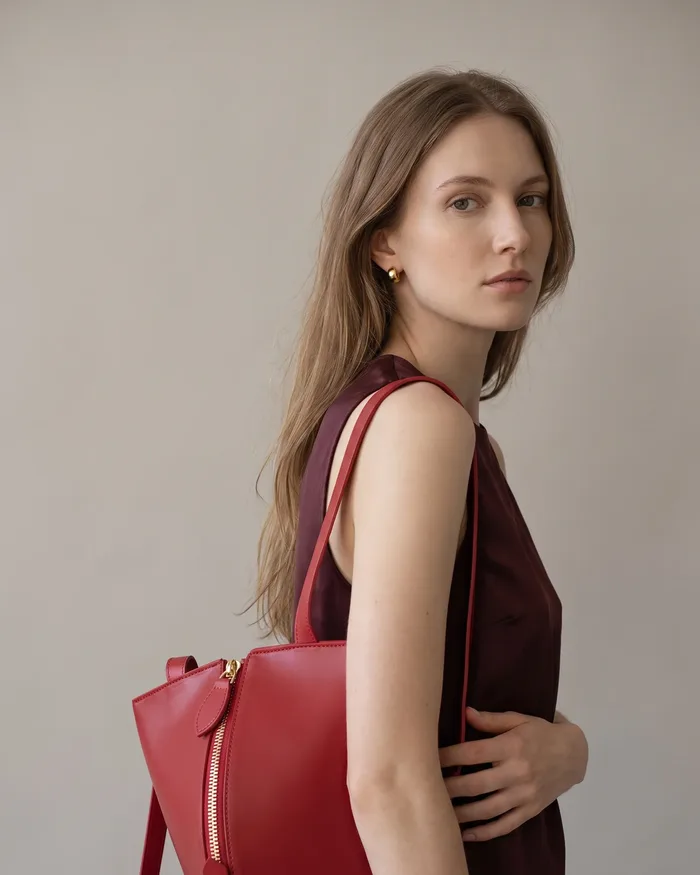
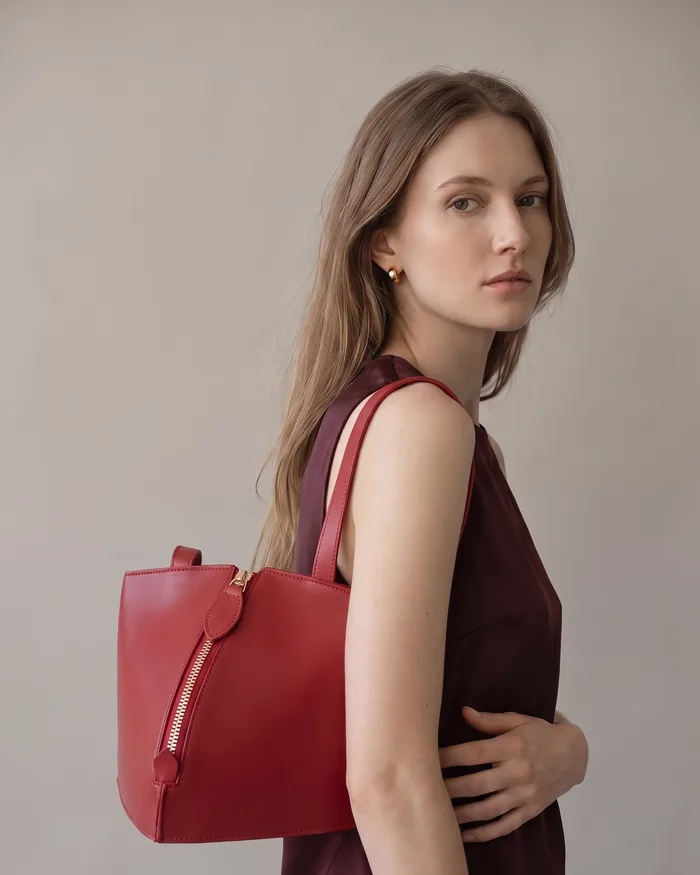
Stüdyo fotoğrafında Origami'nin uzun askısı kaldırıldı; "Vitrin" düzeni kaydedilebiliyor
- "Yeni koleksiyon" (yan yatık manken) fotoğrafında çanta, kendisinde
  olmayan uzun bir askıyla ve önden inen ince bir kayışla görünüyordu; ikisi
  de silindi, çanta yalnızca kısa kulpuyla omuzda. Aynı fotoğraf Instagram
  kolajında ve bir Journal kapağında da yenilendi; canlıdakileri seed değiştirir.
- Admin: "Vitrin: geniş + dikey fotoğraf" düzenindeki bölüm kaydedilirken
  backend doğrulaması reddediyordu (izinli düzen listesinde yoktu); eklendi.
  Bu düzende ürün seçiminin açıklaması da düzeltildi.

diff --git a/backend/prisma/seed-catalog.ts b/backend/prisma/seed-catalog.ts
@@ -187,7 +187,7 @@ async function main() {
     const strip = await prisma.homeSection.findFirst({ where: { layout: 'strip' } });
     const at = (strip?.sortOrder ?? 3) + 1;
     await prisma.homeSection.updateMany({ where: { sortOrder: { gte: at } }, data: { sortOrder: { increment: 1 } } });
-    const studio = await importImage('_home', '13-campaign-studio.webp', 'Origami — stüdyo');
+    const studio = await importImage('_home', '19-campaign-studio.webp', 'Origami — stüdyo');
     await prisma.homeSection.create({ data: { type: HomeSectionType.EDITORIAL, layout: 'sideways', sortOrder: at, imageUrl: studio.url, ctaUrl: '/products', ...sidewaysCopy.base, translations: sidewaysCopy.translations } });
     console.log('✓ ana sayfa: yan yatık manken bandı');
   }
@@ -238,6 +238,16 @@ async function main() {
     const wall = await importImage('_home', '18-boutique-wall.webp', 'MAEYJA');
     await prisma.homeSection.update({ where: { id: firstWall.id }, data: { imageUrl: wall.url } });
     console.log('✓ ana sayfa: vitrin fotoğrafı yenilendi');
+  }
+  // The first studio portrait gave the Origami a long strap it doesn't have; the new one keeps only its short handles.
+  const oldStudio = '/catalog/_home/13-campaign-studio';
+  const studioSections = await prisma.homeSection.findMany({ where: { imageUrl: { contains: oldStudio } } });
+  const studioPosts = await prisma.journalPost.findMany({ where: { coverImageUrl: { contains: oldStudio } } });
+  if (studioSections.length || studioPosts.length) {
+    const studio = await importImage('_home', '19-campaign-studio.webp', 'Origami — stüdyo');
+    await prisma.homeSection.updateMany({ where: { imageUrl: { contains: oldStudio } }, data: { imageUrl: studio.url } });
+    await prisma.journalPost.updateMany({ where: { coverImageUrl: { contains: oldStudio } }, data: { coverImageUrl: studio.url } });
+    console.log('✓ stüdyo fotoğrafı: kısa kulplu Origami');
   }
   // Each bag's second picture is a campaign or still-life photo: on the product page it opens the left column
   // (Polène) and on the listing it is the hover picture. Added once per bag, only while its first photo is the seeded one.

diff --git a/admin/components/content/home-section-dialog.tsx b/admin/components/content/home-section-dialog.tsx
@@ -68,7 +68,8 @@ export function HomeSectionDialog({ section, type, onClose }: { section: HomeSec
     },
   });
   // The side-by-side layout captions both photos, so it takes two products; every other card takes one.
-  const cards = form.watch('layout') === 'diptych' ? 2 : 1;
+  const layout = form.watch('layout');
+  const cards = layout === 'diptych' ? 2 : 1;
 
   const onSubmit = form.handleSubmit(async (raw) => {
     const v = homeSectionSchema.parse(raw);
@@ -155,7 +156,15 @@ export function HomeSectionDialog({ section, type, onClose }: { section: HomeSec
                 {(type === 'HERO' || type === 'EDITORIAL') && (
                   <Field
                     label={cards === 2 ? 'Ürünler (opsiyonel)' : 'Ürün kartı (opsiyonel)'}
-                    hint={type === 'HERO' ? 'Görselin köşesinde küçük ürün kartı' : cards === 2 ? 'Soldaki ve sağdaki fotoğrafın altında ad ve fiyat; fotoğraf ürüne gider' : 'Tam genişlik düzende solda uzun ürün kartı (Polène)'}
+                    hint={
+                      type === 'HERO'
+                        ? 'Görselin köşesinde küçük ürün kartı'
+                        : cards === 2
+                          ? 'Soldaki ve sağdaki fotoğrafın altında ad ve fiyat; fotoğraf ürüne gider'
+                          : layout === 'boutique'
+                            ? 'Dikey fotoğrafın altında ad ve fiyat; fotoğraf ürüne gider'
+                            : 'Tam genişlik düzende solda uzun ürün kartı (Polène)'
+                    }
                   >
                     <Controller control={form.control} name="productIds" render={({ field }) => <ProductPicker value={field.value} onChange={field.onChange} max={cards} />} />
                   </Field>

diff --git a/backend/prisma/seed-pages.ts b/backend/prisma/seed-pages.ts
@@ -187,7 +187,7 @@ export const JOURNAL_POSTS: { slug: string; title: string; excerpt: string; body
     slug: 'origami-kupten-piramide',
     title: 'Origami: küpten piramide',
     excerpt: 'İmza modelimiz tek bir fermuarla iki ayrı forma bürünüyor. Hikâyesi bir kâğıt katlama oyunuyla başladı.',
-    cover: ['_home', '13-campaign-studio.webp'],
+    cover: ['_home', '19-campaign-studio.webp'],
     body: `<p>Origami, MAEYJA'nın N°01'i. Adını kâğıt katlama sanatından alıyor; çünkü o da tek bir parçanın katlanarak biçim kazanmasından doğdu.</p>
 <p>Köşe boyunca uzanan uzun fermuar kapalıyken çanta yumuşak bir küp gibi durur. Fermuarı açtığınızda deri kendi üzerine katlanır ve form bir piramide dönüşür. Aynı çanta, gün içinde iki farklı siluet.</p>
 <h2>Az parça, çok düşünce</h2>

diff --git a/backend/src/modules/content/dto/content.dto.ts b/backend/src/modules/content/dto/content.dto.ts
@@ -7,7 +7,7 @@ import { PaginationQueryDto } from '../../../common/dto/pagination.dto';
 
 const SLUG = /^[a-z0-9]+(?:-[a-z0-9]+)*$/;
 /** Section layouts the storefront knows; which ones apply depends on the section type. */
-export const HOME_LAYOUTS = ['split', 'diptych', 'full', 'sideways', 'grid', 'strip'] as const;
+export const HOME_LAYOUTS = ['split', 'diptych', 'full', 'sideways', 'boutique', 'grid', 'strip'] as const;
 const lower = ({ value }: { value: unknown }) => (typeof value === 'string' ? value.trim().toLowerCase() : value);
 
 export class HomeSectionDto {
